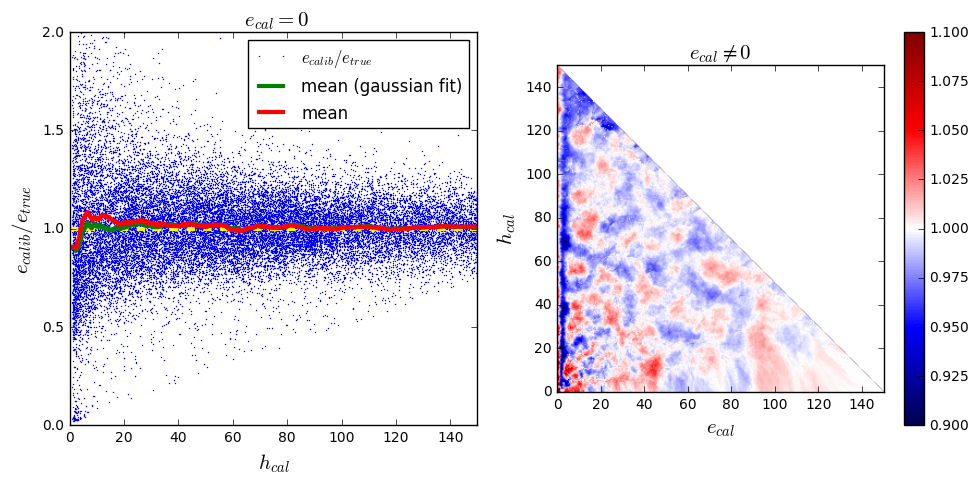
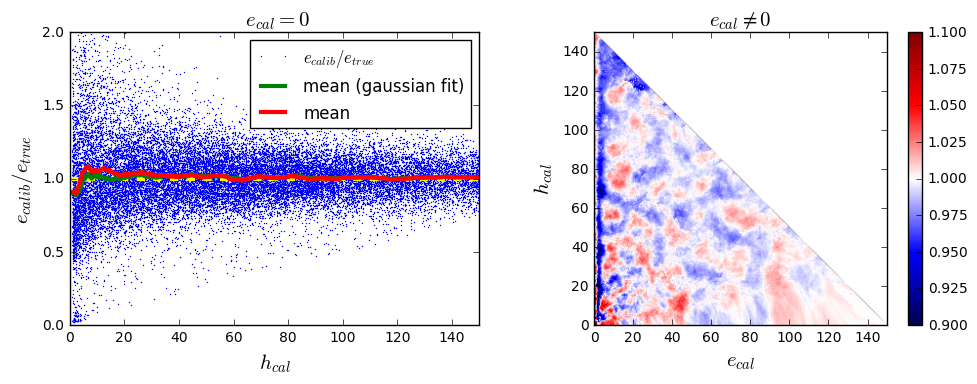
modifications for the plots

Changed region(s): [[0.0, 0.0312, 1.0, 1.0], [0.7369, 0.9375, 0.7677, 0.9688], [0.1535, 0.75, 0.1842, 0.7812]]

diff --git a/test_KNNGF.py b/test_KNNGF.py
@@ -53,14 +53,14 @@ except FileNotFoundError:
     
 classname = KNNGF.classname
 #plot 3D Training points
-fig = plt.figure(1,figsize=(5, 5))
+fig = plt.figure(1,figsize=(6, 4))
 usplt.plot3D_training(data1)
 plt.show()
 savefig(fig,directory,classname+"_plot3D_training.png")
 savefig(fig,'img_index/',classname+"_plot3D_training.png")
 
 #plot 3D surface calibration
-fig = plt.figure(1,figsize=(5, 5))
+fig = plt.figure(1,figsize=(6, 4))
 usplt.plot3D_surf(KNNGF)
 plt.show()
 savefig(fig,directory,classname+"_plot3D_surf.png")
@@ -68,21 +68,21 @@ savefig(fig,directory,classname+"_plot3D_surf.eps")
 savefig(fig,'img_index/',classname+"_plot3D_surf.png")
 
 #courbe de calibration pour ecal = 0
-fig = plt.figure(figsize=(10,4))
+fig = plt.figure(figsize=(12,4))
 usplt.plotCalibrationCurve(KNNGF)
 plt.show()
 savefig(fig,directory,classname+"_calibration.png")
 savefig(fig,'img_index/',classname+"_calibration.png")
 
 #ecalib/true in function of etrue
-fig = plt.figure(figsize=(10,4))
+fig = plt.figure(figsize=(12,4))
 usplt.plot_ecalib_over_etrue_functionof_etrue(KNNGF,data2)
 plt.show()
 savefig(fig,directory,classname+"_ecalib_over_etrue.png")
 savefig(fig,'img_index/',classname+"_ecalib_over_etrue.png")
 
 #histogram of ecalib and etrue
-fig = plt.figure(figsize=(10,6))
+fig = plt.figure(figsize=(12,5))
 usplt.hist_ecalib(KNNGF,data2)
 plt.show()
 savefig(fig,directory,classname+"_histograms_ecalib_etrue.png")
@@ -90,14 +90,14 @@ savefig(fig,directory,classname+"_histograms_ecalib_etrue.eps")
 savefig(fig,'img_index/',classname+"_histograms_ecalib_etrue.png")
 
 #ecalib/etrue in function of ecal,hcal
-fig = plt.figure(figsize=(10,5))
+fig = plt.figure(figsize=(12,4))
 usplt.plot_ecalib_over_etrue_functionof_ecal_hcal(KNNGF,data2)
 plt.show()
 savefig(fig,directory,classname+"_ecalib_over_etrue_functionof_ecal_hcal.png")
 savefig(fig,'img_index/',classname+"_ecalib_over_etrue_functionof_ecal_hcal.png")
 
 #ecalib/etrue gaussian fit curve
-fig = plt.figure(figsize=(10,12))
+fig = plt.figure(figsize=(12,10))
 usplt.plot_gaussianfitcurve_ecalib_over_etrue_functionof_ecal_hcal(KNNGF,data2)
 plt.show()
 savefig(fig,directory,classname+"_ecalib_over_etrue_curve.png")
@@ -116,7 +116,7 @@ rrchi2_ecal_neq_0[eecal_ecal_neq_0 + hhcal_ecal_neq_0 > lim] = math.nan
 x = np.array(KNNGF.evaluatedPoint_reducedchi2)
 x = x[np.array(KNNGF.evaluatedPoint_hcal)+np.array(KNNGF.evaluatedPoint_ecal) < lim]
 
-fig = plt.figure(figsize=(10,8))
+fig = plt.figure(figsize=(12,8))
 plt.subplot(2,2,1)
 plt.plot(hcal_ecal_eq_0,KNNGF.evaluatedPoint_reducedchi2_ecal_eq_0)
 plt.xlabel(r"$h_{cal}$",fontsize=12)
@@ -163,7 +163,7 @@ bin_middles2 = KNNGF.evaluatedPoint_bin_middles[i2]
 error2 = np.sqrt(entries2)
 params2 = KNNGF.evaluatedPoint_parameters[i2]
 
-fig = plt.figure(figsize=(10,4))
+fig = plt.figure(figsize=(12,4))
 plt.subplot(1,2,1)
 plt.errorbar(bin_middles1, entries1, yerr=error1, fmt='o')
 xplot = np.arange(min(bin_middles1),max(bin_middles1),1)
@@ -182,7 +182,7 @@ savefig(fig,directory,classname+"_hist_calib.png")
 savefig(fig,directory,classname+"_hist_calib.eps")
 
 #NEIGHBORS
-fig = plt.figure(figsize=(10,4))
+fig = plt.figure(figsize=(12,4))
 #neigh for ecal == 0
 KNNGF = data1.KNNGaussianFit(n_neighbors_ecal_eq_0=n_neighbors_ecal_eq_0,
                              n_neighbors_ecal_neq_0=n_neighbors_ecal_neq_0,

diff --git a/test_Lego.py b/test_Lego.py
@@ -41,14 +41,14 @@ except FileNotFoundError:
     
 classname = CalibrationLego.classname
 #plot 3D Training points
-fig = plt.figure(1,figsize=(5, 5))
+fig = plt.figure(1,figsize=(6, 4))
 usplt.plot3D_training(data1)
 plt.show()
 savefig(fig,directory,classname+"_plot3D_training.png")
 plt.close()
 
 #plot 3D surface calibration
-fig = plt.figure(1,figsize=(5, 5))
+fig = plt.figure(1,figsize=(6, 4))
 usplt.plot3D_surf(CalibrationLego)
 plt.show()
 savefig(fig,directory,classname+"_plot3D_surf.png")
@@ -56,21 +56,21 @@ savefig(fig,directory,classname+"_plot3D_surf.eps")
 plt.close()
 
 #courbe de calibration pour ecal = 0
-fig = plt.figure(figsize=(10,4))
+fig = plt.figure(figsize=(12,4))
 usplt.plotCalibrationCurve(CalibrationLego)
 plt.show()
 savefig(fig,directory,classname+"_calibration.png")
 plt.close()
 
 #ecalib/true in function of etrue
-fig = plt.figure(figsize=(10,4))
+fig = plt.figure(figsize=(12,4))
 usplt.plot_ecalib_over_etrue_functionof_etrue(CalibrationLego,data2)
 plt.show()
 savefig(fig,directory,classname+"_ecalib_over_etrue.png")
 plt.close()
 
 #histogram of ecalib and etrue
-fig = plt.figure(figsize=(10,6))
+fig = plt.figure(figsize=(12,5))
 usplt.hist_ecalib(CalibrationLego,data2)
 plt.show()
 savefig(fig,directory,classname+"_histograms_ecalib_etrue.png")
@@ -78,14 +78,14 @@ savefig(fig,directory,classname+"_histograms_ecalib_etrue.eps")
 plt.close()
 
 #ecalib/etrue in function of ecal,hcal
-fig = plt.figure(figsize=(10,5))
+fig = plt.figure(figsize=(12,4))
 usplt.plot_ecalib_over_etrue_functionof_ecal_hcal(CalibrationLego,data2)
 plt.show()
 savefig(fig,directory,classname+"_ecalib_over_etrue_functionof_ecal_hcal.png")
 plt.close()
 
 #ecalib/etrue gaussian fit curve
-fig = plt.figure(figsize=(10,12))
+fig = plt.figure(figsize=(12,10))
 usplt.plot_gaussianfitcurve_ecalib_over_etrue_functionof_ecal_hcal(CalibrationLego,data2)
 plt.show()
 savefig(fig,directory,classname+"_ecalib_over_etrue_curve.png")
@@ -99,7 +99,7 @@ true = CalibrationLego.true
 true[np.isnan(true)] = 0
 ind = true != 0
 
-fig = plt.figure(1,figsize=(5, 5))
+fig = plt.figure(1,figsize=(6, 4))
 ax = plt.axes(projection='3d')
 x = ecal[ind]
 y = hcal[ind]

diff --git a/test_LR.py b/test_LR.py
@@ -49,14 +49,14 @@ except FileNotFoundError:
 
 classname = LinearRegression.classname
 #plot 3D Training points
-fig = plt.figure(1,figsize=(5, 5))
+fig = plt.figure(1,figsize=(6, 4))
 usplt.plot3D_training(data1)
 plt.show()
 savefig(fig,directory,classname+"_plot3D_training.png")
 plt.close()
 
 #plot 3D surface calibration
-fig = plt.figure(1,figsize=(5, 5))
+fig = plt.figure(1,figsize=(6, 4))
 usplt.plot3D_surf(LinearRegression)
 plt.show()
 savefig(fig,directory,classname+"_plot3D_surf.png")
@@ -64,21 +64,21 @@ savefig(fig,directory,classname+"_plot3D_surf.eps")
 plt.close()
 
 #courbe de calibration pour ecal = 0
-fig = plt.figure(figsize=(10,4))
+fig = plt.figure(figsize=(12,4))
 usplt.plotCalibrationCurve(LinearRegression)
 plt.show()
 savefig(fig,directory,classname+"_calibration.png")
 plt.close()
 
 #ecalib/true in function of etrue
-fig = plt.figure(figsize=(10,4))
+fig = plt.figure(figsize=(12,4))
 usplt.plot_ecalib_over_etrue_functionof_etrue(LinearRegression,data2)
 plt.show()
 savefig(fig,directory,classname+"_ecalib_over_etrue.png")
 plt.close()
 
 #histogram of ecalib and etrue
-fig = plt.figure(figsize=(10,6))
+fig = plt.figure(figsize=(12,5))
 usplt.hist_ecalib(LinearRegression,data2)
 plt.show()
 savefig(fig,directory,classname+"_histograms_ecalib_etrue.png")
@@ -86,14 +86,14 @@ savefig(fig,directory,classname+"_histograms_ecalib_etrue.eps")
 plt.close()
 
 #ecalib/etrue in function of ecal,hcal
-fig = plt.figure(figsize=(10,5))
+fig = plt.figure(figsize=(12,4))
 usplt.plot_ecalib_over_etrue_functionof_ecal_hcal(LinearRegression,data2)
 plt.show()
 savefig(fig,directory,classname+"_ecalib_over_etrue_functionof_ecal_hcal.png")
 plt.close()
 
 #ecalib/etrue gaussian fit curve
-fig = plt.figure(figsize=(10,12))
+fig = plt.figure(figsize=(12,10))
 usplt.plot_gaussianfitcurve_ecalib_over_etrue_functionof_ecal_hcal(LinearRegression,data2)
 plt.show()
 savefig(fig,directory,classname+"_ecalib_over_etrue_curve.png")

diff --git a/test_KNNGC.py b/test_KNNGC.py
@@ -50,13 +50,13 @@ except FileNotFoundError:
     
 classname = KNNGC.classname
 #plot 3D Training points
-fig = plt.figure(1,figsize=(5, 5))
+fig = plt.figure(1,figsize=(6, 4))
 usplt.plot3D_training(data1)
 plt.show()
 savefig(fig,directory,classname+"_plot3D_training.png")
 
 #plot 3D surface calibration
-fig = plt.figure(1,figsize=(5, 5))
+fig = plt.figure(1,figsize=(6, 4))
 usplt.plot3D_surf(KNNGC)
 plt.show()
 savefig(fig,directory,classname+"_plot3D_surf.png")
@@ -64,21 +64,21 @@ savefig(fig,directory,classname+"_plot3D_surf.eps")
 plt.close()
 
 #courbe de calibration pour ecal = 0
-fig = plt.figure(figsize=(10,4))
+fig = plt.figure(figsize=(12,4))
 usplt.plotCalibrationCurve(KNNGC)
 plt.show()
 savefig(fig,directory,classname+"_calibration.png")
 plt.close()
 
 #ecalib/true in function of etrue
-fig = plt.figure(figsize=(10,4))
+fig = plt.figure(figsize=(12,4))
 usplt.plot_ecalib_over_etrue_functionof_etrue(KNNGC,data2)
 plt.show()
 savefig(fig,directory,classname+"_ecalib_over_etrue.png")
 plt.close()
 
 #histogram of ecalib and etrue
-fig = plt.figure(figsize=(10,6))
+fig = plt.figure(figsize=(12,5))
 usplt.hist_ecalib(KNNGC,data2)
 plt.show()
 savefig(fig,directory,classname+"_histograms_ecalib_etrue.png")
@@ -86,14 +86,14 @@ savefig(fig,directory,classname+"_histograms_ecalib_etrue.eps")
 plt.close()
 
 #ecalib/etrue in function of ecal,hcal
-fig = plt.figure(figsize=(10,5))
+fig = plt.figure(figsize=(12,4))
 usplt.plot_ecalib_over_etrue_functionof_ecal_hcal(KNNGC,data2)
 plt.show()
 savefig(fig,directory,classname+"_ecalib_over_etrue_functionof_ecal_hcal.png")
 plt.close()
 
 #ecalib/etrue gaussian fit curve
-fig = plt.figure(figsize=(10,12))
+fig = plt.figure(figsize=(12,10))
 usplt.plot_gaussianfitcurve_ecalib_over_etrue_functionof_ecal_hcal(KNNGC,data2)
 plt.show()
 savefig(fig,directory,classname+"_ecalib_over_etrue_curve.png")

diff --git a/test_KNN.py b/test_KNN.py
@@ -50,14 +50,14 @@ except FileNotFoundError:
     
 classname = KNN.classname
 #plot 3D Training points
-fig = plt.figure(1,figsize=(5, 5))
+fig = plt.figure(1,figsize=(6, 4))
 usplt.plot3D_training(data1)
 plt.show()
 savefig(fig,directory,classname+"_plot3D_training.png")
 plt.close()
 
 #plot 3D surface calibration
-fig = plt.figure(1,figsize=(5, 5))
+fig = plt.figure(1,figsize=(6, 4))
 usplt.plot3D_surf(KNN)
 plt.show()
 savefig(fig,directory,classname+"_plot3D_surf.png")
@@ -65,21 +65,21 @@ savefig(fig,directory,classname+"_plot3D_surf.eps")
 plt.close()
 
 #courbe de calibration pour ecal = 0
-fig = plt.figure(figsize=(10,4))
+fig = plt.figure(figsize=(12,4))
 usplt.plotCalibrationCurve(KNN)
 plt.show()
 savefig(fig,directory,classname+"_calibration.png")
 plt.close()
 
 #ecalib/true in function of etrue
-fig = plt.figure(figsize=(10,4))
+fig = plt.figure(figsize=(12,4))
 usplt.plot_ecalib_over_etrue_functionof_etrue(KNN,data2)
 plt.show()
 savefig(fig,directory,classname+"_ecalib_over_etrue.png")
 plt.close()
 
 #histogram of ecalib and etrue
-fig = plt.figure(figsize=(10,6))
+fig = plt.figure(figsize=(12,5))
 usplt.hist_ecalib(KNN,data2)
 plt.show()
 savefig(fig,directory,classname+"_histograms_ecalib_etrue.png")
@@ -87,14 +87,14 @@ savefig(fig,directory,classname+"_histograms_ecalib_etrue.eps")
 plt.close()
 
 #ecalib/etrue in function of ecal,hcal
-fig = plt.figure(figsize=(10,5))
+fig = plt.figure(figsize=(12,4))
 usplt.plot_ecalib_over_etrue_functionof_ecal_hcal(KNN,data2)
 plt.show()
 savefig(fig,directory,classname+"_ecalib_over_etrue_functionof_ecal_hcal.png")
 plt.close()
 
 #ecalib/etrue gaussian fit curve
-fig = plt.figure(figsize=(10,12))
+fig = plt.figure(figsize=(12,10))
 usplt.plot_gaussianfitcurve_ecalib_over_etrue_functionof_ecal_hcal(KNN,data2)
 plt.show()
 savefig(fig,directory,classname+"_ecalib_over_etrue_curve.png")

diff --git a/test_KNNGFD.py b/test_KNNGFD.py
@@ -48,14 +48,14 @@ except FileNotFoundError:
 
 classname = KNNGFD.classname
 #plot 3D Training points
-fig = plt.figure(1,figsize=(5, 5))
+fig = plt.figure(1,figsize=(5, 4))
 usplt.plot3D_training(data1)
 #plt.show()
 savefig(fig,directory,classname+"_plot3D_training.png")
 plt.close()
 
 #plot 3D surface calibration
-fig = plt.figure(1,figsize=(5, 5))
+fig = plt.figure(1,figsize=(5, 4))
 usplt.plot3D_surf(KNNGFD)
 #plt.show()
 savefig(fig,directory,classname+"_plot3D_surf.png")
@@ -90,7 +90,7 @@ savefig(fig,directory,classname+"_ecalib_over_etrue_functionof_ecal_hcal.png")
 plt.close()
 
 #ecalib/etrue gaussian fit curve
-fig = plt.figure(figsize=(10,12))
+fig = plt.figure(figsize=(10,10))
 usplt.plot_gaussianfitcurve_ecalib_over_etrue_functionof_ecal_hcal(KNNGFD,data2)
 #plt.show()
 savefig(fig,directory,classname+"_ecalib_over_etrue_curve.png")
